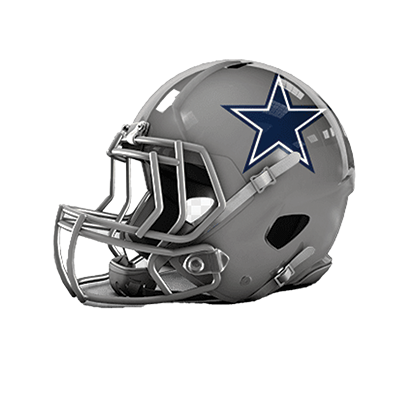
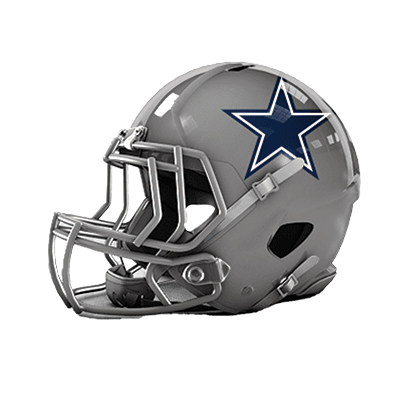
final

Changed region(s): [[0.12, 0.15, 0.9, 0.81]]

diff --git a/project/final-eval/index.html b/project/final-eval/index.html
@@ -9,6 +9,20 @@
     </head>
     <body>
         <div id="layout">
+            <h3>John and Jane Smith's</h3>
+            <h1>Super Bowl LVIII</h1>
+            <h3>Extravaganza Party</h3>
+            <div id="side-by-side">
+                <img
+                    src="images/team2.png"
+                    alt="Dallas Cowboys"
+                >
+                <img
+                    src="images/team1.png"
+                    alt="Dallas Cowboys"
+                >
+            </div>
+
             <div id="side-by-side">
 
             </div>
